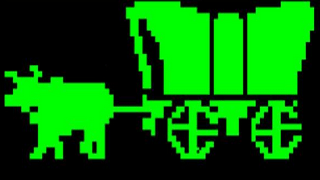
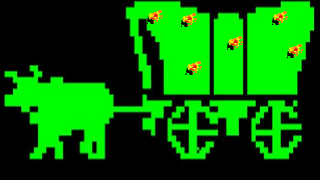
updated img-wagon

diff --git a/assets/javascript/game.js b/assets/javascript/game.js
@@ -19,6 +19,7 @@ function game() {
     displayMessage.innerHTML = "CATCH ME IN OREGON...HOW BOUT THAT"+"<br>"+"Press a letter";
   	displayCurrentWord.innerText = "0 0 0 0 0";
   	displayGuess.innerText = "0 0 0 0 0";
+  	document.getElementById("img-wagon").src = "assets/images/wagon-320.png";
 
 	// Status message displayed in #trail
 	var message = {
@@ -77,6 +78,7 @@ function game() {
 						// display Game Over
 						displayMessage.innerHTML = message.lose;
 						displayCounter.innerHTML = guessCounter;
+						document.getElementById("img-wagon").src = "assets/images/wagon-320-5.png";
 						return;
 					}
 				} else {
@@ -84,10 +86,8 @@ function game() {
 
 				}
 				// correct guess but already guessed
-				// else if (){
 
 				// // correct guess, not already guessed
-				// } else{
 				// // 	Increase score++
 				// // 	Update word with guessed letter
 				// //	Remove letter from guessing pool??
@@ -105,19 +105,19 @@ function game() {
 			switch (guessCounter){
 				case 4:
 					displayMessage.innerHTML = message.badGuessOne;
-					//change to image 2
+					document.getElementById("img-wagon").src = "assets/images/wagon-320-1.png";
 					break;
 				case 3:
 					displayMessage.innerHTML = message.badGuessTwo;
-					//change to image 3
+					document.getElementById("img-wagon").src = "assets/images/wagon-320-2.png";
 					break;
 				case 2:
 					displayMessage.innerHTML = message.badGuessThree;
-					//change to image 4
+					document.getElementById("img-wagon").src = "assets/images/wagon-320-3.png";
 					break;
 				case 1:
 					displayMessage.innerHTML = message.badGuessFour;
-					//change to image 5
+					document.getElementById("img-wagon").src = "assets/images/wagon-320-4.png";
 			}
 			
 
